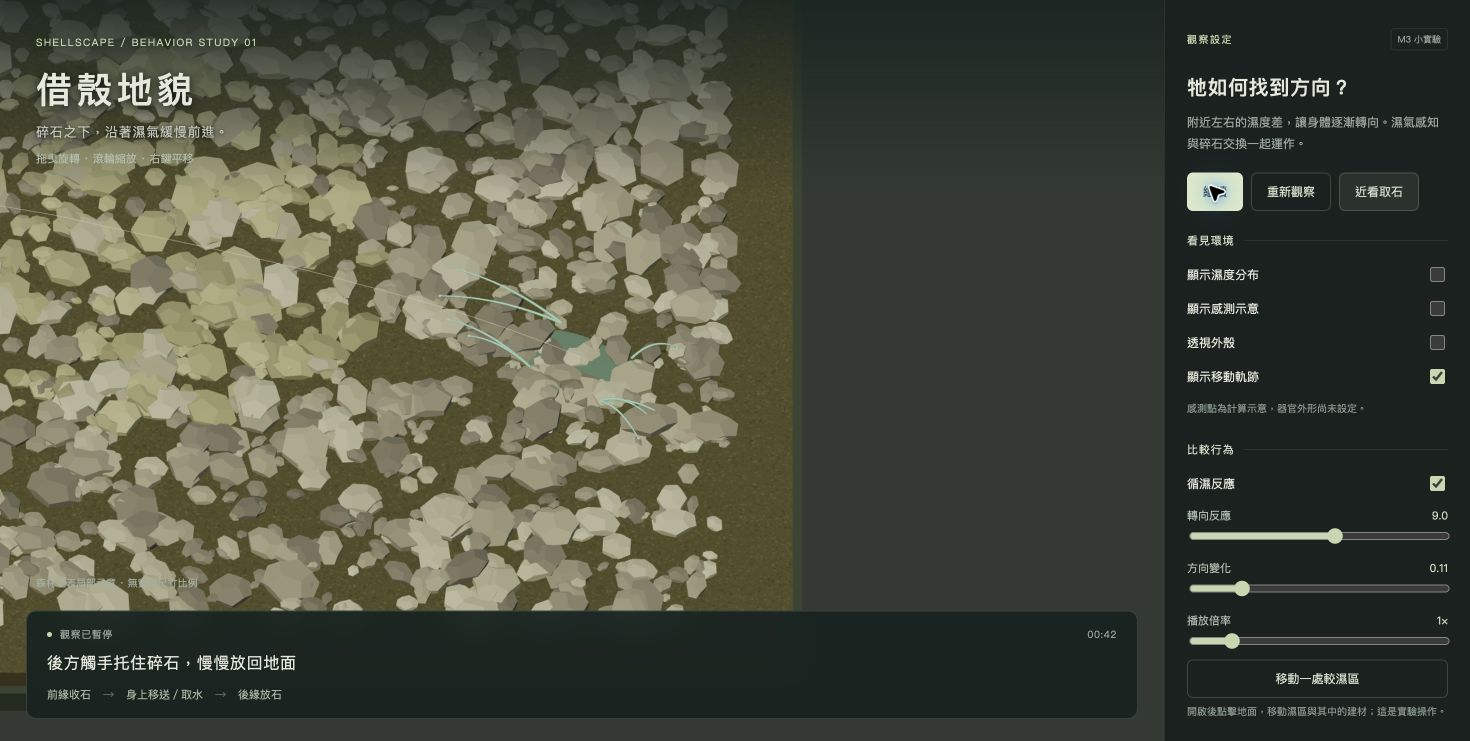
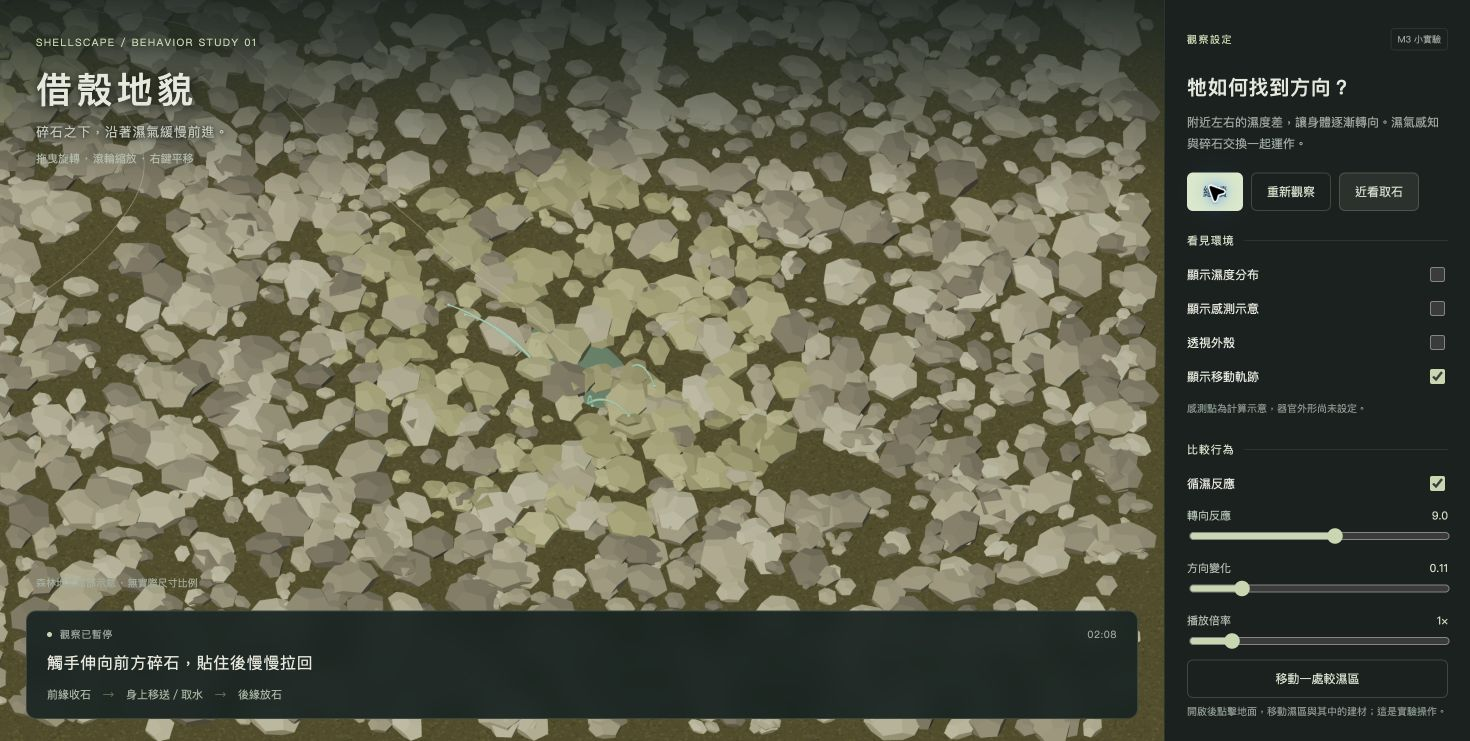
feat: slow creature movement and summarize today's M3 work

diff --git a/m3-creature/2026-10-22-summary.md b/m3-creature/2026-10-22-summary.md
@@ -1,0 +1,79 @@
+# 2026-10-22｜借殼地貌：今日統整與作業核對
+
+本檔依 Luna 今天的描述、選擇與實際製作結果整理，不是本人反思、創作動機或研究結論。狀態以本檔與 README 最新內容為準，notes.md 保留各階段歷程。
+
+## 今天確認的世界與物種
+
+- 保留人類消失五千萬年後的森林盆地背景；乾季長時間少雨，土壤仍濕潤，各處濕度不同。
+- 借殼地貌很小、很薄，體內充滿水分，生活在碎石狹縫間，沒有眼睛。
+- 有感知濕氣的器官，會緩慢、不規則地往較濕的方向移動；器官的外形、構造與感知距離延後討論。
+- 使用地面碎石作外殼：前方收進碎石、沿身體移送、後方放回，殼上的石頭持續交換。
+- 碰到吸水建材後才取水，附著期間吸完其中儲水，再照常放回，不額外留下建材。
+- 從地表觀看，主要辨識線索是移動的碎石與取放石頭的細觸手。本體目前在碎石間可見，透視功能可輔助觀察，尚未完成真實遮蔽與碰撞模擬。
+
+## 三個特徵與行為對照
+
+| 類型 | 已確認內容 | 對應設定書欄位 |
+| --- | --- | --- |
+| 特徵 1 | 小而薄、能生活在碎石狹縫的本體 | 型態 |
+| 特徵 2 | 體內充滿水分，需補充水分 | 型態／生理需求 |
+| 特徵 3 | 由環境碎石構成、沿途交換的外殼 | 型態 |
+| 行為 1 | 感知濕氣並緩慢轉向較濕處 | 行為 |
+| 行為 2 | 前方細觸手接住碎石並拉回身上 | 行為／外殼維持 |
+| 行為 3 | 後方細觸手將碎石放回地面，再鬆開收回 | 行為／外殼維持 |
+| 行為 4 | 建材附著期間吸取其中的水 | 行為／水分需求 |
+
+這是根據 Luna 描述整理的設定對照，不代表老師已檢核，也不將水當作能量來源。
+
+## 今天做出的可操作版本
+
+- 在 `m3-creature/` 建立網頁小實驗，沿用 repo 的 Three.js 本機依賴。
+- 到 GitHub 查找五種候選，核對原碼與專案資訊；依對話按第 1 種 Braitenberg 做左右濕度訊號控制轉向，另加入少量連續方向變化。完整比較見 [algorithm-comparison.md](algorithm-comparison.md)。
+- 增加地面碎石至 3,900 顆，大小混合，其中新增 2,420 顆細碎石。
+- 前方觸手分段伸出、接觸、拉石；後方觸手托石、落地、鬆開收回。觸手粗細依 Luna 回饋縮至較粗版本約三分之一。
+- 修正本體預設隱藏，現在一般模式可見扁薄身體，透視只調整外殼透明度。
+- 最後把基本移動參數從 0.48 改為 0.28，約減慢四成；保留 1× 播放與觸手伸展／放石節奏。這些是示意單位，不是實際公分／秒。
+- 提供濕度圖、感測示意、循濕開關、移動濕區、軌跡、透視、暫停／重設及近看跟隨視角。
+- 已有實際截圖 [preview.png](preview.png)，沒有上傳影片或簡報。
+
+## 驗證與卡點
+
+- 五項 Node 行為測試通過：左右循濕與開關對照、180 秒石塊／水量守恆、暫停與濕區移動、前方接觸前不瞬移、後方落地才計數且收手不拖走石頭。
+- JavaScript 語法與 Git 差異檢查通過；Chrome 已實際載入與操作，最終畫面仍待 Luna 親自確認是否符合想像。
+- 真實卡點：軌跡增加時 BufferGeometry 緩衝區太小，造成漏畫與警告。修正與實際試過的方法已存 [debug-note.md](debug-note.md)。這是 Codex 開發時遇到的問題，不冒稱 Luna 已親自除錯。
+- 此版是行為與畫面的小實驗，尚未驗證真實受力、濕氣傳播、材料保存、高溫腐蝕、體內儲水上限、能量或繁殖。
+
+## 今天是否完成？
+
+依本次重新讀取的[課程進度表](https://course.interaction.tw/oop/#schedule)：10/22 課後重點是最小可跑版 push，確認符合設定書；10/29 課前為展示、卡點、指定閱讀及代表動作。
+
+| 項目 | 本次可確認的狀態 |
+| --- | --- |
+| 最小可跑版 | 已實作、測試並可在本機操作；本次同步程式至 GitHub，仍需 Luna 看最後調慢的效果 |
+| 三個特徵與至少三種行為對照 | 本檔已整理；老師回饋是否另需修改尚未確認 |
+| 代表動作 | Luna 已描述並選定前收後放、地表碎石移動，已做出示意 |
+| 卡點與完整訊息、試過的方法 | 已有真實紀錄及修正結果；Luna 需理解內容，以實際經驗說明 AI 參與 |
+| 五種演算法比較與選型 | 已有來源、優缺點與 Braitenberg 實驗；不能等同本人已讀完指定教材 |
+| 本人指定閱讀 | 未確認：10/22 的 Nature of Code 第 5 章開頭；10/29 的 Reynolds 原典及個人行為選擇 |
+| 老師回饋與 Discord 公告 | 未取得本次新公告／回饋，尚未確認有無額外要求，未發送 Discord 訊息 |
+| 公開可操作網址 | 尚未部署；本機 localhost 網址僅能在這台電腦使用，GitHub 檔案頁是原始碼頁 |
+| 本人反思與發表簡報 | 未完成；屬 M3 正式交付項目，不能因此把今天最小可跑版說成完整 M3 已完成 |
+
+結論：今日製作、除錯與進度整理已完成；本人閱讀、最終操作確認及臨時公告核對仍待 Luna 確認，因此不直接宣稱整份作業已無待辦。
+
+## Luna 接下來做的三件事
+
+1. 親自操作慢速版，確認身體、前後細觸手與循濕行為符合想像，並能現場重新啟動。操作方式見 [README](README.md)。
+2. 若尚未閱讀，先讀 [Nature of Code 第 5 章開頭](https://natureofcode.com/autonomous-agents/) 與 [Reynolds 的 Steering Behaviors](https://www.red3d.com/cwr/steer/gdc99/)，可先看 Wander 小節，對照模型中的連續方向變化。Braitenberg 是本次主要規則，不能用已採用它代替本人完成 Reynolds 的閱讀與選擇。
+3. 查看 Discord 是否有額外作業或提交方式；若要求老師可遠端操作的網址，還需部署網頁，或依老師允許的方式現場展示／另備錄影。
+
+感知器官細節、繁殖與完整生理可留待後續討論。本人反思仍由 Luna 自己寫；M3 正式發表與交付為 11/12（四）上課前，今天不冒稱已完成該整站交付。
+
+## AI 揭露
+
+| 項目 | 內容 |
+| --- | --- |
+| 工具 | Codex、GitHub CLI、Chrome 瀏覽器測試、Node 測試 |
+| 日期 | 2026-10-22 |
+| Prompt 摘要 | 核對作業；依 Luna 描述確認借殼地貌與環境；查 GitHub 比較五種演算法；試作網頁；依回饋加碎石、前後細觸手、恢復本體、縮細觸手、調慢移動；整理並上傳今日工作 |
+| 採用範圍 | Luna 提供生物設定與外觀／動作回饋，AI 整理討論、研究來源、實作程式與測試、修正問題、製作實際截圖與進度文件、執行 Git 提交／推送。未代寫本人反思、創作動機或研究結論 |

diff --git a/notes.md b/notes.md
@@ -1,5 +1,14 @@
 # 工作進度筆記
 
+## 2026-10-22｜M3 借殼地貌循濕網頁與今日統整
+
+- 今日完整統整、作業核對與下一步見 [M3 今日統整](m3-creature/2026-10-22-summary.md)，歷程見 [M3 notes](m3-creature/notes.md)。
+- Luna 確認薄小含水本體、石縫棲地、感知濕氣、前收後放碎石及接觸吸水建材取水。乾季長時間少雨，土壤仍濕潤，各處濕度不同。
+- 完成 GitHub 五種演算法比較，按第 1 種 Braitenberg 做成 [M3 網頁小實驗](m3-creature/README.md)；新增 3,900 顆大小碎石、前後細觸手取放、可見薄片本體、近看跟隨及濕度對照。最後將基本移動參數從 0.48 改為 0.28，約慢四成。
+- 五項行為測試、語法與差異檢查通過；已有 Chrome 實測截圖與真實除錯紀錄。未宣稱物理、生理、老師檢核或完整 M3 交付完成。
+- 剩本人閱讀、最終操作確認，以及老師回饋／Discord 額外要求核對；本機網址僅供這台電腦操作，尚無公開部署。反思與正式簡報仍待本人後續完成。
+- AI：Codex；2026-10-22；採用範圍：依 Luna 描述整理設定與研究、實作及修改、測試與除錯、截圖、今日統整與 Git 保存；未代寫本人反思、創作理由或研究結論。影片與簡報未納入本次上傳。
+
 ## 2026-10-16｜借殼地貌與 Rust 版整理上傳
 
 - 重新探索超現實生物，Luna 選定「借殼地貌」；舊圓胖角色保留歷史，現行細節見 [M2 notes](m2-species/notes.md)。

diff --git a/m3-creature/notes.md b/m3-creature/notes.md
@@ -2,6 +2,16 @@
 
 同日多次討論按最新進度置頂；較早段落的「尚未實作」等狀態是當時紀錄，請以最新小實驗段落為準。
 
+## 2026-10-22｜慢速版與今日收尾
+
+- 依 Luna 要求把基本移動參數 0.48 降至 0.28，約慢四成，觸手伸展與放石時長保留，播放倍率仍預設 1×。
+- 已完成 [今日統整](2026-10-22-summary.md)，記錄世界與物種定案、三個特徵與四個行為、五種演算法研究、網頁實作與修改、實際卡點、驗證、AI 揭露與待辦。root notes.md 也新增入口。
+- 五項 Node 行為測試仍通過，語法與差異檢查通過。已重新讀取課程網站的最新進度資料，區分 10/22 課後最小可跑版、10/29 準備與完整 M3 正式交付。
+- 慢速版已在 Chrome 重新操作，觀察前後觸手、取水累計增加與正常本體顯示，warning/error 清單為空；更新實際截圖。
+- 今日製作與保存已具備；本人指定閱讀、最後操作確認、老師回饋及 Discord 臨時公告仍需 Luna 確認。不把本機網址當公開部署，不把 AI 閱讀與除錯當作本人已完成。
+- 反思維持本人自行撰寫，未製作或上傳影片與簡報；感知器官細節與繁殖仍留待之後。
+- AI：Codex；依 Luna 要求調慢、統整並推送，未代寫反思、創作理由或研究結論。
+
 ## 2026-10-22｜後方細觸手放回碎石
 
 - Luna 要求後方也有觸手把碎石放回環境，沿用目前三分之一粗細的細絲外觀。
